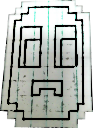
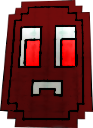
fix enemy sizing and add bubble boy

diff --git a/src/model/Level.java b/src/model/Level.java
@@ -226,32 +226,38 @@ public class Level {
 				}
 				else if (att.equals("FREEZEBOY-SPAWN:")){
 					Vector spawn = new Vector(Double.parseDouble(reader.next()), Double.parseDouble(reader.next()));
-					FreezeBoy freezeBoy = new FreezeBoy(new AABB(spawn, new Vector(15,25), null, null), 0, 100, level);
+					FreezeBoy freezeBoy = new FreezeBoy(new AABB(spawn, new Vector(61,101).mult(0.4), null, null), 0, 100, level);
 					level.addEntity(freezeBoy);
 					reader.nextLine();
 				}
 				else if (att.equals("BURNBOY-SPAWN:")){
 					Vector spawn = new Vector(Double.parseDouble(reader.next()), Double.parseDouble(reader.next()));
-					BurnBoy burnBoy= new BurnBoy(new AABB(spawn, new Vector(25,25), null, null), 0, 100, level);
+					BurnBoy burnBoy= new BurnBoy(new AABB(spawn, new Vector(128,117).mult(0.4), null, null), 0, 100, level);
 					level.addEntity(burnBoy);
 					reader.nextLine();
 				}
 				else if (att.equals("SPIKEBOY-SPAWN:")){
 					Vector spawn = new Vector(Double.parseDouble(reader.next()), Double.parseDouble(reader.next()));
-					SpikeBoy spikeBoy= new SpikeBoy(new AABB(spawn, new Vector(25,25), null, null), 0, 100, level);
+					SpikeBoy spikeBoy= new SpikeBoy(new AABB(spawn, new Vector(128,75).mult(0.4), null, null), 0, 100, level);
 					level.addEntity(spikeBoy);
 					reader.nextLine();
 				}
 				else if (att.equals("SQUISHBOY-SPAWN:")){
 					Vector spawn = new Vector(Double.parseDouble(reader.next()), Double.parseDouble(reader.next()));
-					SquishBoy squishBoy= new SquishBoy(new AABB(spawn, new Vector(25,25).mult(10), null, null), 0, 100, level);
+					SquishBoy squishBoy= new SquishBoy(new AABB(spawn, new Vector(93,128), null, null), 0, 100, level);
 					level.addEntity(squishBoy);
 					reader.nextLine();
 				}
 				else if (att.equals("POISSONBOY-SPAWN:")){
 					Vector spawn = new Vector(Double.parseDouble(reader.next()), Double.parseDouble(reader.next()));
-					PoissonBoy squishBoy= new PoissonBoy(new AABB(spawn, new Vector(25,25), null, null), 0, 100, level);
-					level.addEntity(squishBoy);
+					PoissonBoy poissonBoy= new PoissonBoy(new AABB(spawn, new Vector(128,124).mult(0.4), null, null), 0, 100, level);
+					level.addEntity(poissonBoy);
+					reader.nextLine();
+				}
+				else if (att.equals("BUBBLEBOY-SPAWN:")){
+					Vector spawn = new Vector(Double.parseDouble(reader.next()), Double.parseDouble(reader.next()));
+					BubbleBoy bubbleBoy= new BubbleBoy(new AABB(spawn, new Vector(58,128).mult(0.4), null, null), 0, 100, level);
+					level.addEntity(bubbleBoy);
 					reader.nextLine();
 				}
 			}

diff --git a/src/model/BubbleBoy.java b/src/model/BubbleBoy.java
@@ -1,0 +1,34 @@
+package model;
+
+import java.awt.*;
+
+public class BubbleBoy extends Enemy {
+
+    private double shootTimer = 0;
+    public BubbleBoy(AABB aabb, int depth, double mass, Level level) {
+        super(aabb, depth, mass, level);
+    }
+
+    @Override
+    public void tick(double dt) {
+        shoot(dt);
+        super.tick(dt);
+    }
+
+    @Override
+    public void render(Graphics g) {
+        Vector min = getAABB().min();
+        Vector ext = getAABB().extents;
+        g.drawImage(Textures.BUBBLE_BOY, (int) min.x, (int) min.y, (int) (2 * ext.x), (int) (2 * ext.y), null);
+    }
+
+    private void shoot(double dt) {
+        AABB bulletAABB = new AABB(this.getAABB().center, this.getAABB().extents.mult(0.1), this.getVelocity(), null);
+        this.shootTimer += dt;
+        if(this.shootTimer >= 3) {
+            Bullet bullet = new Bullet(bulletAABB, 0, 0, this.getLevel(), 0, new Vector(-50, -0.1), false, StatusEffect.BUBBLE);
+            this.getLevel().addEntity(bullet);
+            this.shootTimer = 0;
+        }
+    }
+}
